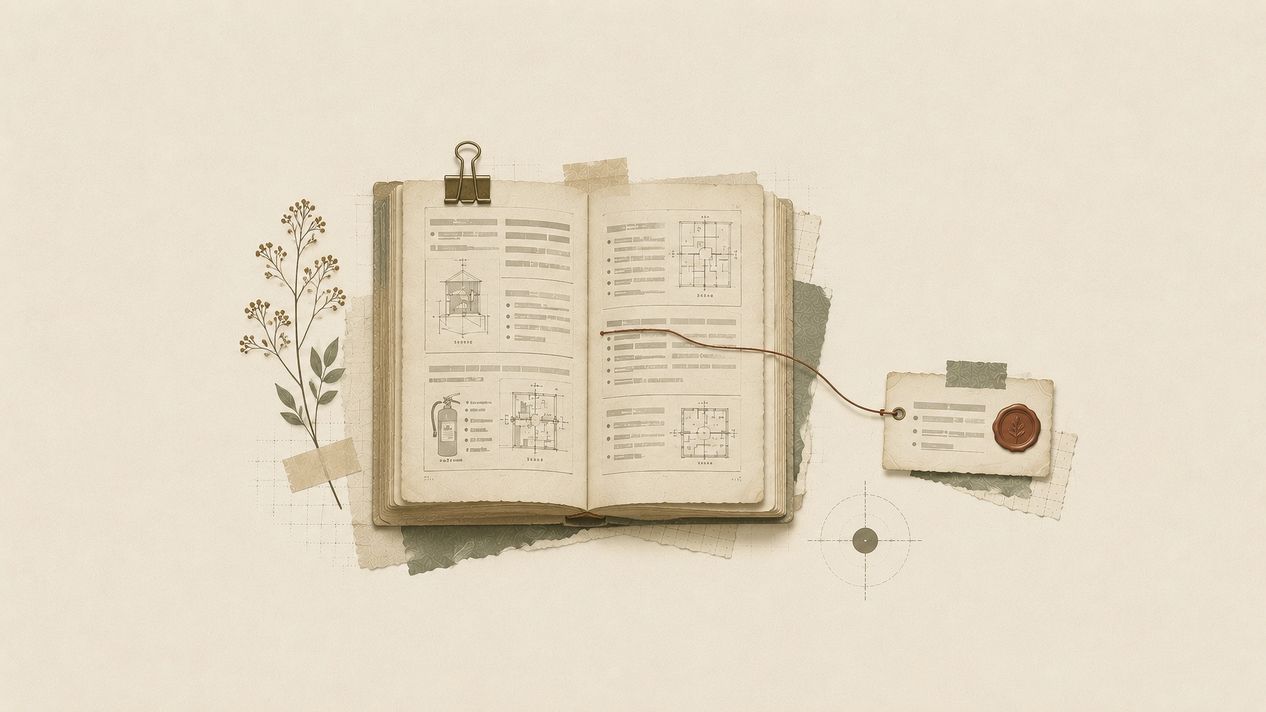
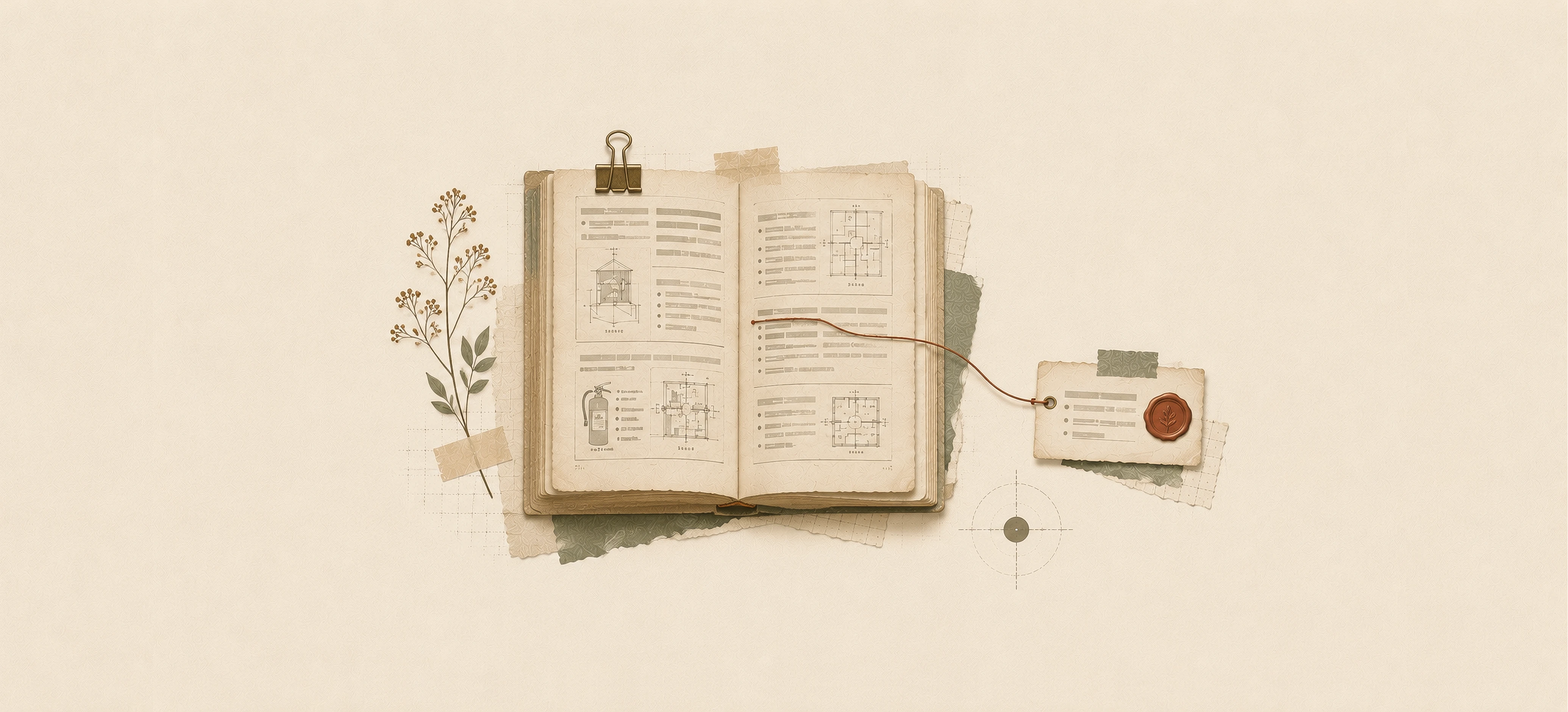
feat(hero): swap in author-cropped 2.2:1 source images, center animation end trigger (v3.4)
The 16:9 crop-from-source approach (v3.3) was reverted because the
underlying compositions were already framed too large for a 2.2:1 crop to
save cleanly. The author instead re-exported all 5 covers in Photoshop at
4140x1882 (2.2:1, verified via sips before conversion) with the canvas
extended and subjects recentered by hand -- content and composition
intentionally changed at the source, not cropped after the fact.

- Replaced all 5 hero WebPs (cwebp -q90, same filenames) with the new
  4140x1882 source images. Hero.tsx reads intrinsic width/height via sharp
  at render time, so no hardcoded dimensions needed updating.
- .case-hero's aspect-ratio changed from 16/9 to 2.2/1 to match.
- Animation end trigger moved from center 40% to center 50% (vertically
  centered), so the fully-grown hero lands fully on-screen with air above
  and below instead of pushed toward the top.

Scroll span, easing, smoothing, start/end width, and centering are
unchanged from v3.2.

Claude-Session: https://claude.ai/code/session_01YaoeMjbquMBVoMujHM9p8m

Changed region(s): [[0.1866, 0.1849, 0.8397, 0.8013]]

diff --git a/app/globals.css b/app/globals.css
@@ -439,7 +439,8 @@
    into that tracking — exactly the trap the old version was built around
    avoiding). Progress now comes from a plain rAF loop keyed off
    window.scrollY, in HeroClient.tsx: trigger positions (scrollY where the
-   hero's center sits at 70%/40% of viewport height) are computed once at
+   hero's center reaches 50% of viewport height, with the start trigger
+   derived backward from a fixed scroll-span fraction) are computed once at
    mount and on resize — never read back from the element's own current,
    possibly mid-animation rect, which would be the same self-tracking
    trap in JS form. An exponential-smoothing term (cur += (eased-cur) *
@@ -450,10 +451,16 @@
   width: min(var(--hero-width-start), calc(100vw - 3rem));
   max-width: none; /* override Tailwind preflight's img{max-width:100%} — otherwise it clamps
                        to .prose-works's 672px content box regardless of the width above */
-  aspect-ratio: 16 / 9;
+  /* Source images are now authored at 4140×1882 (2.2:1) specifically for
+     this box — a 16:9 crop, at full viewport width, renders taller than
+     common desktop viewports (e.g. 1905px wide → 1071px tall vs. a
+     953px-tall viewport), clipping the top once the grow animation
+     finishes. 2.2/1 (≈866px tall at 1905px wide) fits inside that viewport
+     with room to spare. */
+  aspect-ratio: 2.2 / 1;
   height: auto;
-  object-fit: cover; /* the source is ~16:9 but not bit-exact; this guarantees
-                         no stretching even for the tiny leftover mismatch */
+  object-fit: cover; /* source ratio is 4140/1882 ≈ 2.1998, not bit-exact 2.2;
+                         this guarantees no stretching from that rounding */
   margin-top: var(--hero-gap-top);
   margin-bottom: var(--figure-gap-block);
   /* NOT margin-inline:auto — confirmed in an earlier round that once a

diff --git a/app/components/mdx/HeroClient.tsx b/app/components/mdx/HeroClient.tsx
@@ -13,7 +13,9 @@ interface HeroClientProps {
 const BASE_RADIUS = 12; // must match .case-hero's border-radius in globals.css
 const HERO_WIDTH_START = 1280; // must match --hero-width-start in globals.css
 const SMOOTHING = 0.08; // ≈ GSAP ScrollTrigger scrub: 0.8
-const END_VIEWPORT_FRACTION = 0.4; // hero center at 40% of viewport height
+const END_VIEWPORT_FRACTION = 0.5; // hero center at 50% (vertically centered) of viewport height —
+// with the new 2.2/1 source images this puts the fully-grown hero fully
+// on-screen with air above and below, instead of pushed toward the top
 const SPAN_VH_FRACTION = 0.3; // scroll span = 30% of viewport height, anchored off the end trigger
 const CONVERGED_THRESHOLD = 0.001;
 
